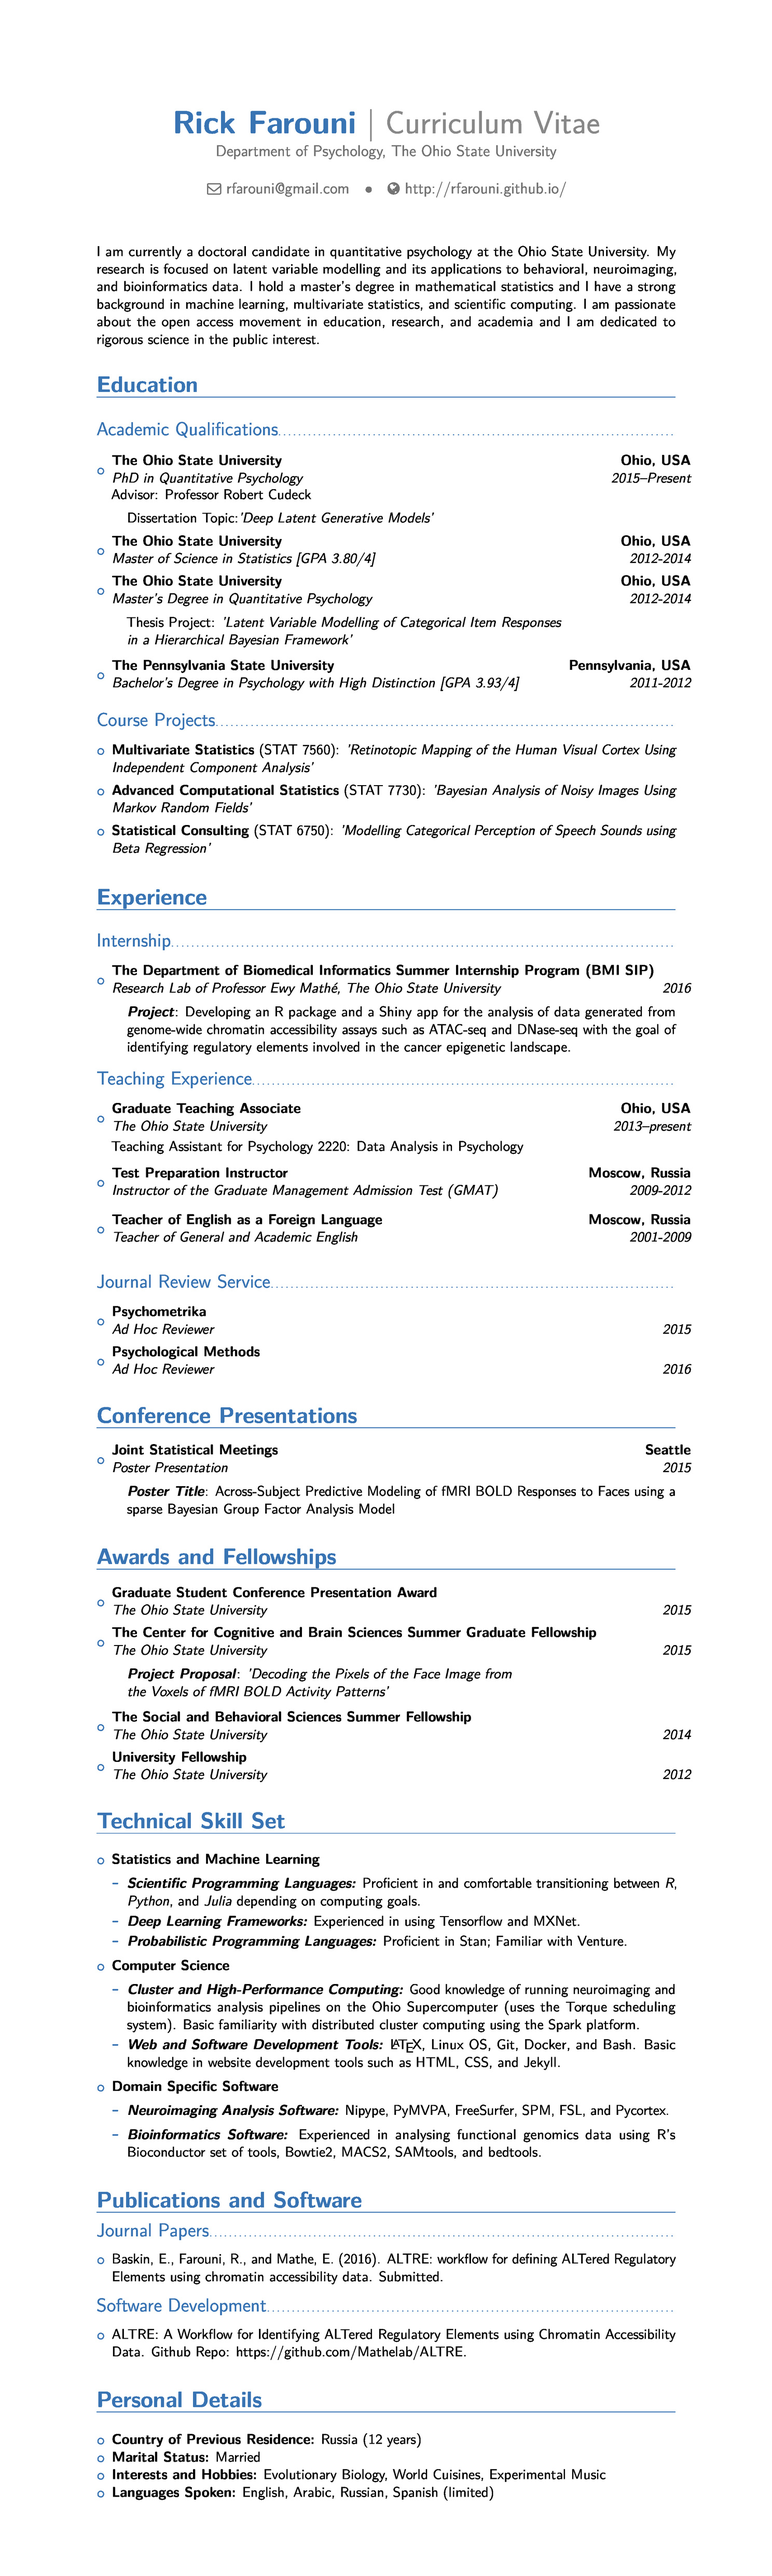
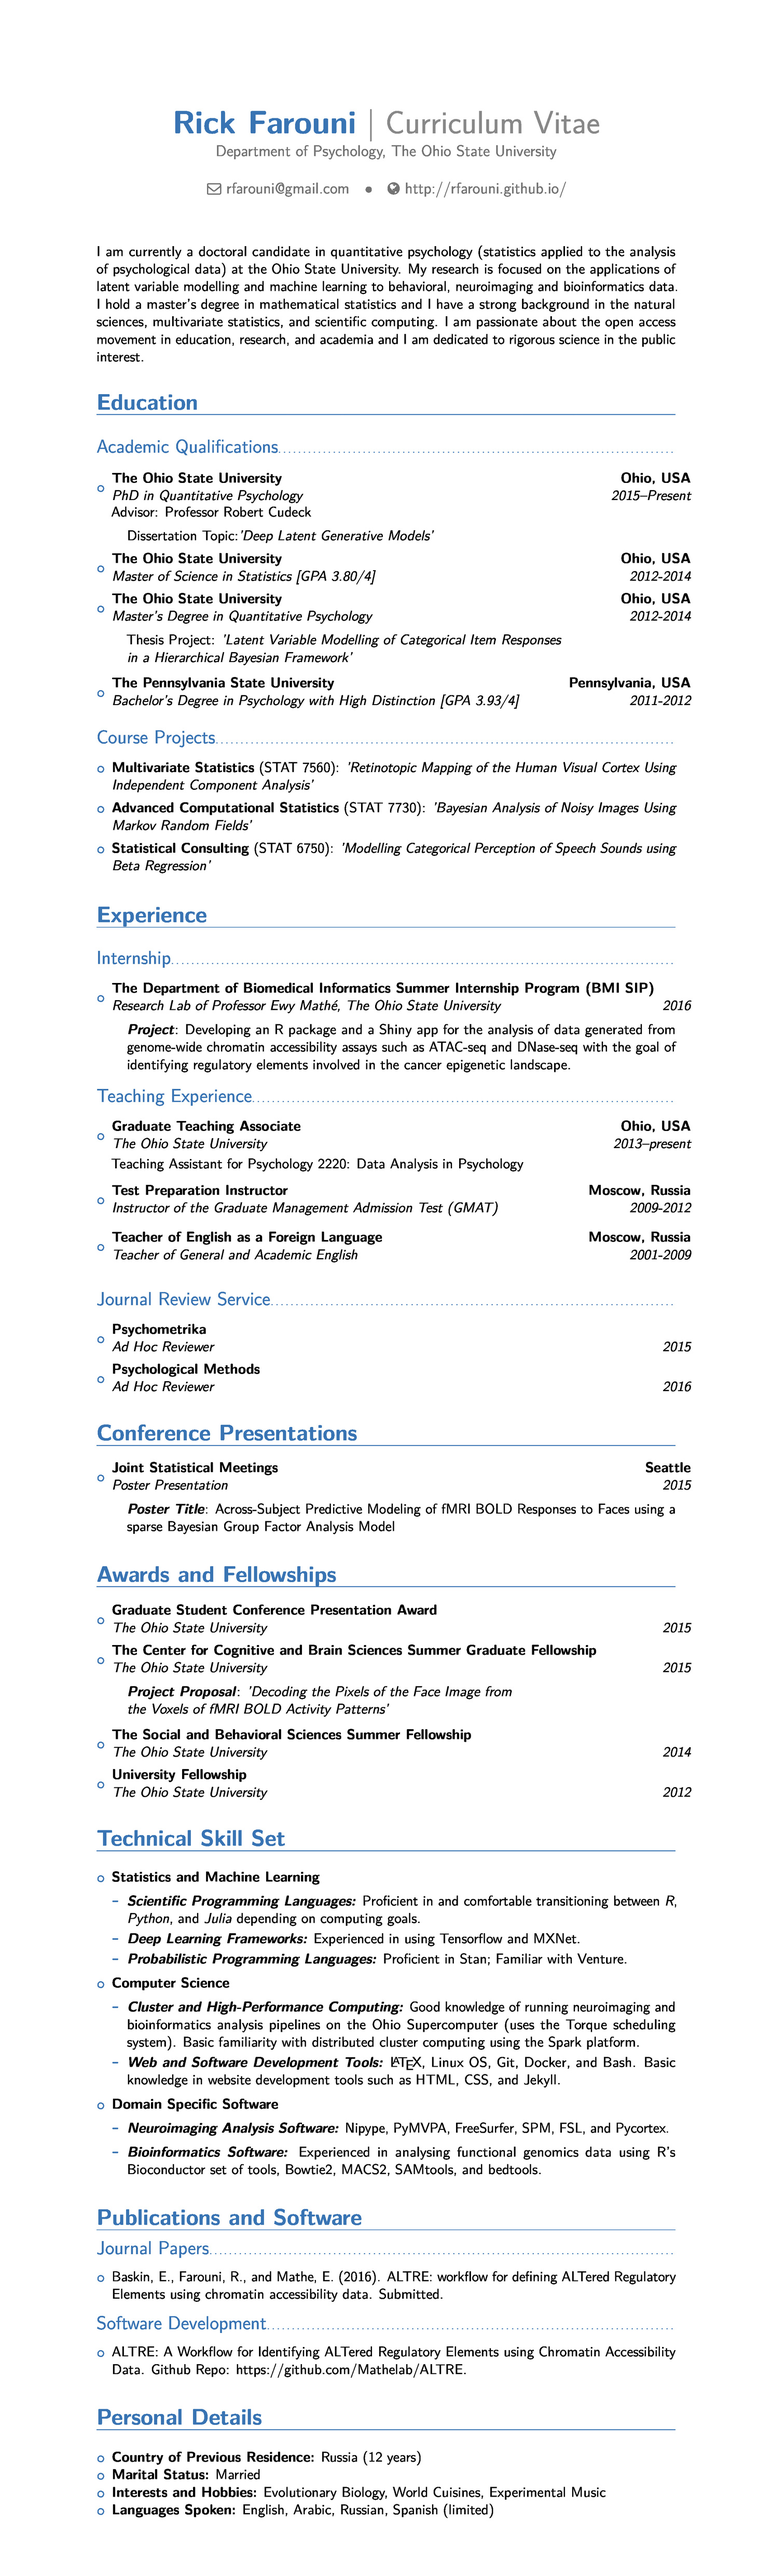
modified about

diff --git a/index.html b/index.html
@@ -13,7 +13,7 @@ subtitle: Dedicated to Rigorous Science in the Public Interest
 </table>
 </div>
   <h3 >About Me</h3>
-I am currently a doctoral candidate in quantitative psychology at the Ohio State University. My research is focused on latent variable modelling and machine learning and their applications to neuroimaging and bioinformatics data. This website contains blogposts, code, and links to several resources that I hope you might find useful. My CV can be accessed <a href="/CV/">here</a>.
+I am currently a doctoral candidate in quantitative psychology (statistics applied to the analysis of psychological data) at the Ohio State University. My research is focused on the applications of latent variable modelling and machine learning to behavioral, neuroimaging and bioinformatics data. This website contains blogposts, code, and links to several resources that I hope you might find useful. My CV can be accessed <a href="/CV/">here</a>.
 <div>
 <br>
 <br>
